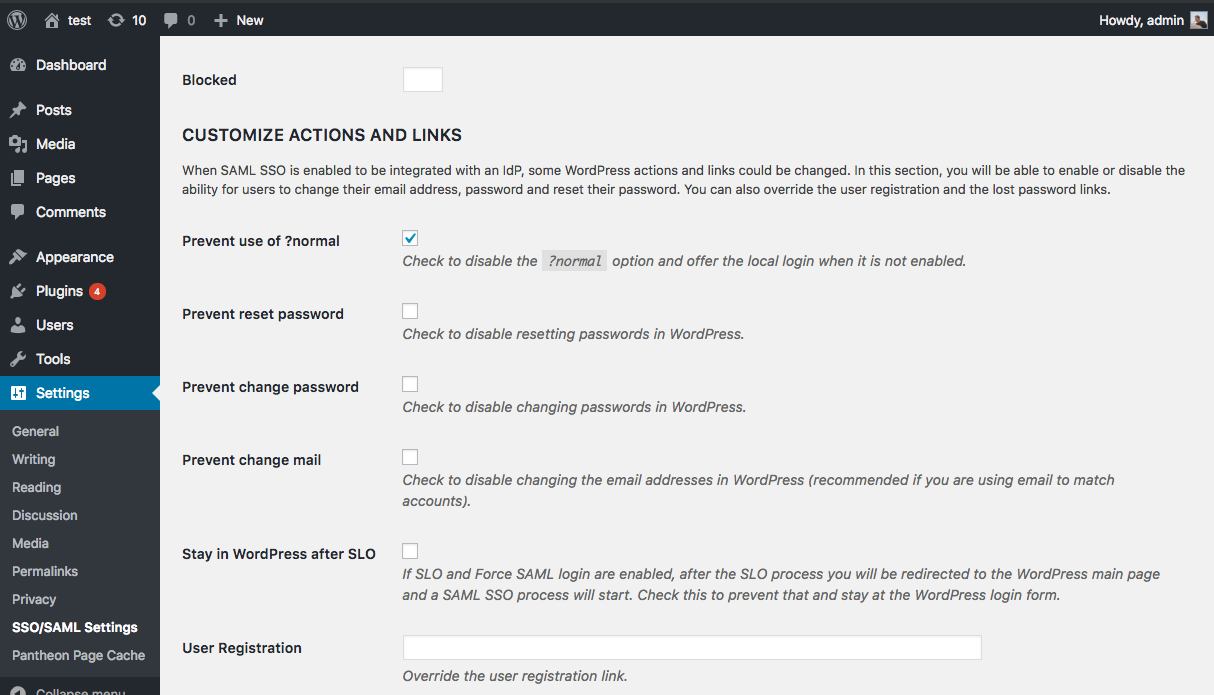
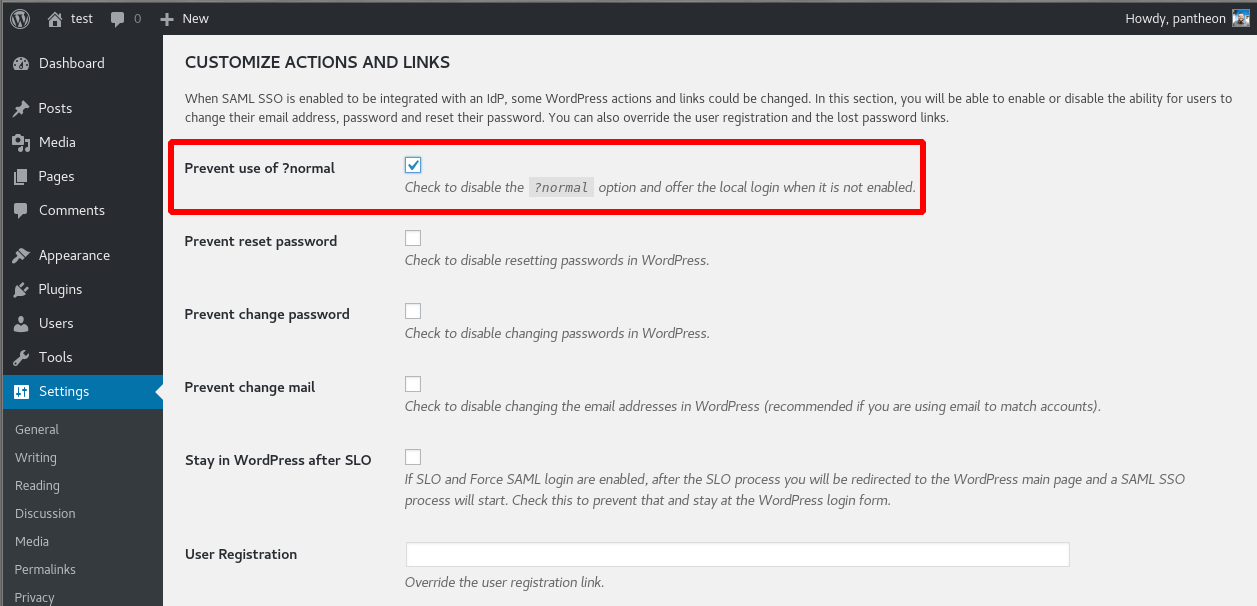
copy & style edits, screenshot notations

diff --git a/source/_docs/guides/two-factor-authentication.md b/source/_docs/guides/two-factor-authentication.md
@@ -93,31 +93,51 @@ Two-factor authentication is a helpful security practice because it prevents att
   #### OneLogin Instructions
 
   1. Sign up and create a [OneLogin account](https://www.onelogin.com/){.external} for your organization.
+
   2. Install the WordPress SAML 2.0 app connector as part of the OneLogin dashboard (You need administrator priviledges to install apps). This needs to be done for each WordPress site that is being managed by OneLogin.
+
   3. Edit the OneLogin WordPress app connector to provide the appropriate default values for the Configuration section. Other sections should already be set up correctly.
-  ![TFA OneLogin Config](/source/docs/assets/images/tfa-wp-onelogin-config.png)
+
+    ![TFA OneLogin Config](/source/docs/assets/images/tfa-wp-onelogin-config.png)
+
   4. **(Optional)** Configure the **Authentication Factors** found under Settings for a list of authentication factors you can enable for your different users.
-  ![TFA OneLogin Methods](/source/docs/assets/images/tfa-onelogin-tfa-methods.png)
+
+    ![TFA OneLogin Methods](/source/docs/assets/images/tfa-onelogin-tfa-methods.png)
+
   5. Create user accounts in the Users Administration area of OneLogin, and click **New User**. Make sure that the “Username” and "Email" fields in OneLogin match their WordPress username and email.
-  ![TFA OneLogin New User](/source/docs/assets/images/tfa-onelogin-new-user.png)
+
+    ![TFA OneLogin New User](/source/docs/assets/images/tfa-onelogin-new-user.png)
 
   #### WordPress Instructions
 
   1. Install and activate the [OneLogin SAML SSO](https://wordpress.org/plugins/onelogin-saml-sso/){.external} plugin on your WordPress site.
+
   2. Configure the **Identity Provider Settings** section in the SSO/SAML Settings within the WordPress Admin to provide the appropriate values, which are available in the SSO section of the OneLogin Configuration page.
-  ![TFA OneLogin Ident](/source/docs/assets/images/tfa-wp-onelogin-ident.png)
-  3. Configure the **Options** section(optional) under the SSO/SAML Settings, make sure **Create user if not exists** is checked if you want users to be auto-created and **Keep Local login** is checked if you still want to use the normal WP login form, otherwise you will always be using OneLogin to authenticate.
-  ![TFA OneLogin Options](/source/docs/assets/images/tfa-wp-onelogin-options.png)
-  4. Configure the **Attribute** in the SSO/SAML Settings in the WordPress Admin with what is shown in the screenshot; values are case-sensitive.
-  ![TFA OneLogin Attributes](/source/docs/assets/images/tfa-wp-onelogin-attribute.png)
-  5. Configure the **Customize Actions and Links** in the SSO/SAML Settings within the WordPress Admin to **Prevent use of ?normal**. This requires OneLogin as the authentication solution.
-  ![TFA OneLogin Custom Actions](/source/docs/assets/images/tfa-onelogin-custom-actions.png)
+
+    ![TFA OneLogin Ident](/source/docs/assets/images/tfa-wp-onelogin-ident.png)
+
+  3. Configure the **Options** section(optional) under the SSO/SAML Settings:
+    - Check **Create user if not exists** if you want users to be auto-created
+    - Check **Keep Local login** if you still want to use the normal WP login form, otherwise you will always be using OneLogin to authenticate.
+
+    ![TFA OneLogin Options](/source/docs/assets/images/tfa-wp-onelogin-options.png)
+
+  4. Configure the **Attribute Mapping** in the SSO/SAML Settings of the WordPress Admin with the values shown below. Values are case-sensitive.
+
+    ![TFA OneLogin Attributes](/source/docs/assets/images/tfa-wp-onelogin-attribute.png)
+
+  5. Configure the **Customize Actions and Links** in the SSO/SAML Settings of the WordPress Admin to **Prevent use of ?normal**. This requires OneLogin as the authentication solution.
+
+    ![TFA OneLogin Custom Actions](/source/docs/assets/images/tfa-onelogin-custom-actions.png)
+
   6. Now use the OneLogin dashboard to log in to your WordPress site!
-  ![TFA OneLogin WP Login](/source/docs/assets/images/tfa-onelogin-wp-login.png)
-  <div class="alert alert-info">
-  <h4 class="info">Note</h4>
-  <p markdown="1">You can also refer to OneLogin's documentation to [Configure SAML for WordPress](https://onelogin.service-now.com/support/?id=kb_article&sys_id=590b1d83db109700d5505eea4b96197f){.external} for futher troubleshooting. You will need a OneLogin admin account to access their knowledgebase.</p></div>
+
+    ![TFA OneLogin WP Login](/source/docs/assets/images/tfa-onelogin-wp-login.png)
+  <div class="alert alert-info" markdown="1">
+  #### Note {.info}
+  You can also refer to OneLogin's documentation, [Configure SAML for WordPress](https://onelogin.service-now.com/support/?id=kb_article&sys_id=590b1d83db109700d5505eea4b96197f){.external}, for further troubleshooting. You will need a OneLogin admin account to access their knowledge base.
   </div>
+</div>
 
   <!-- 2nd pane content -->
   <div role="tabpanel" class="tab-pane" id="drupal-org" markdown="1">
